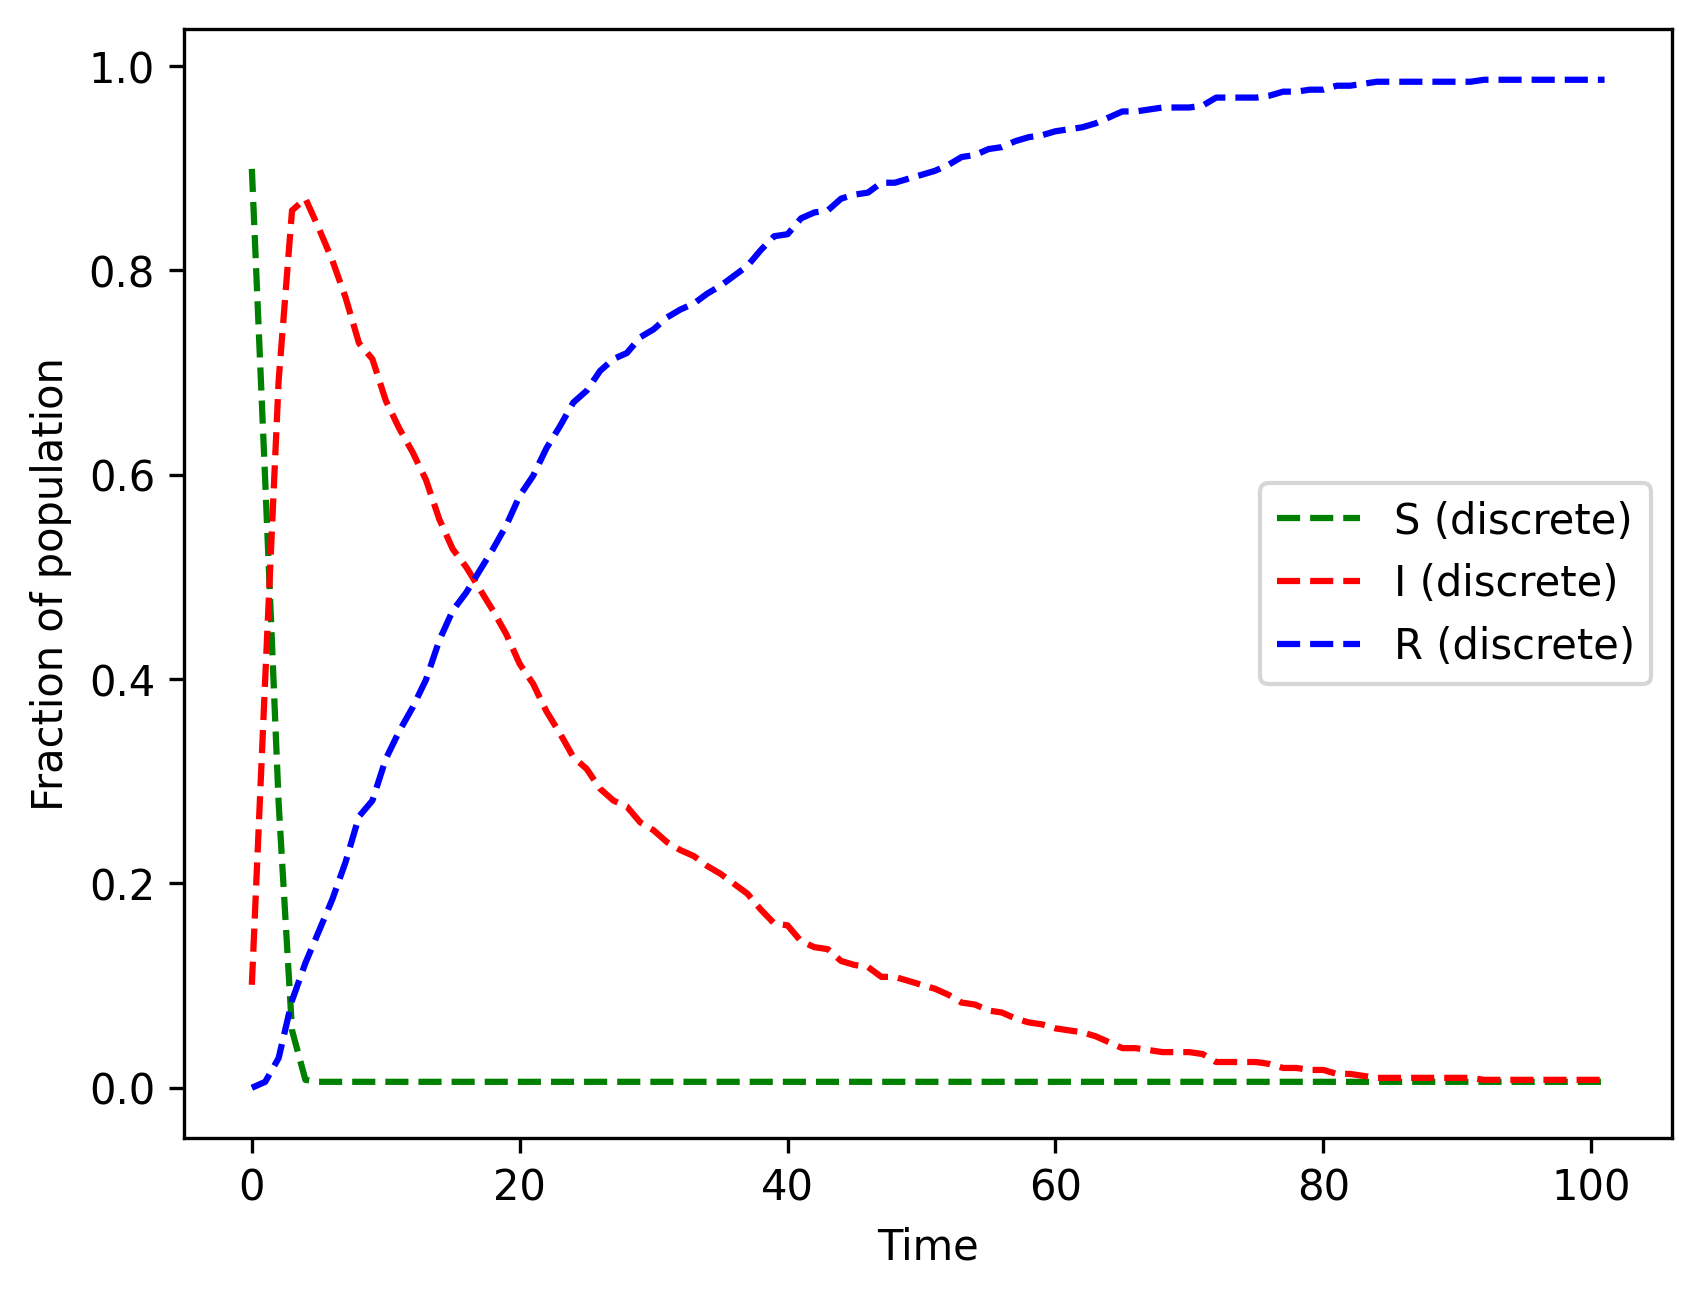
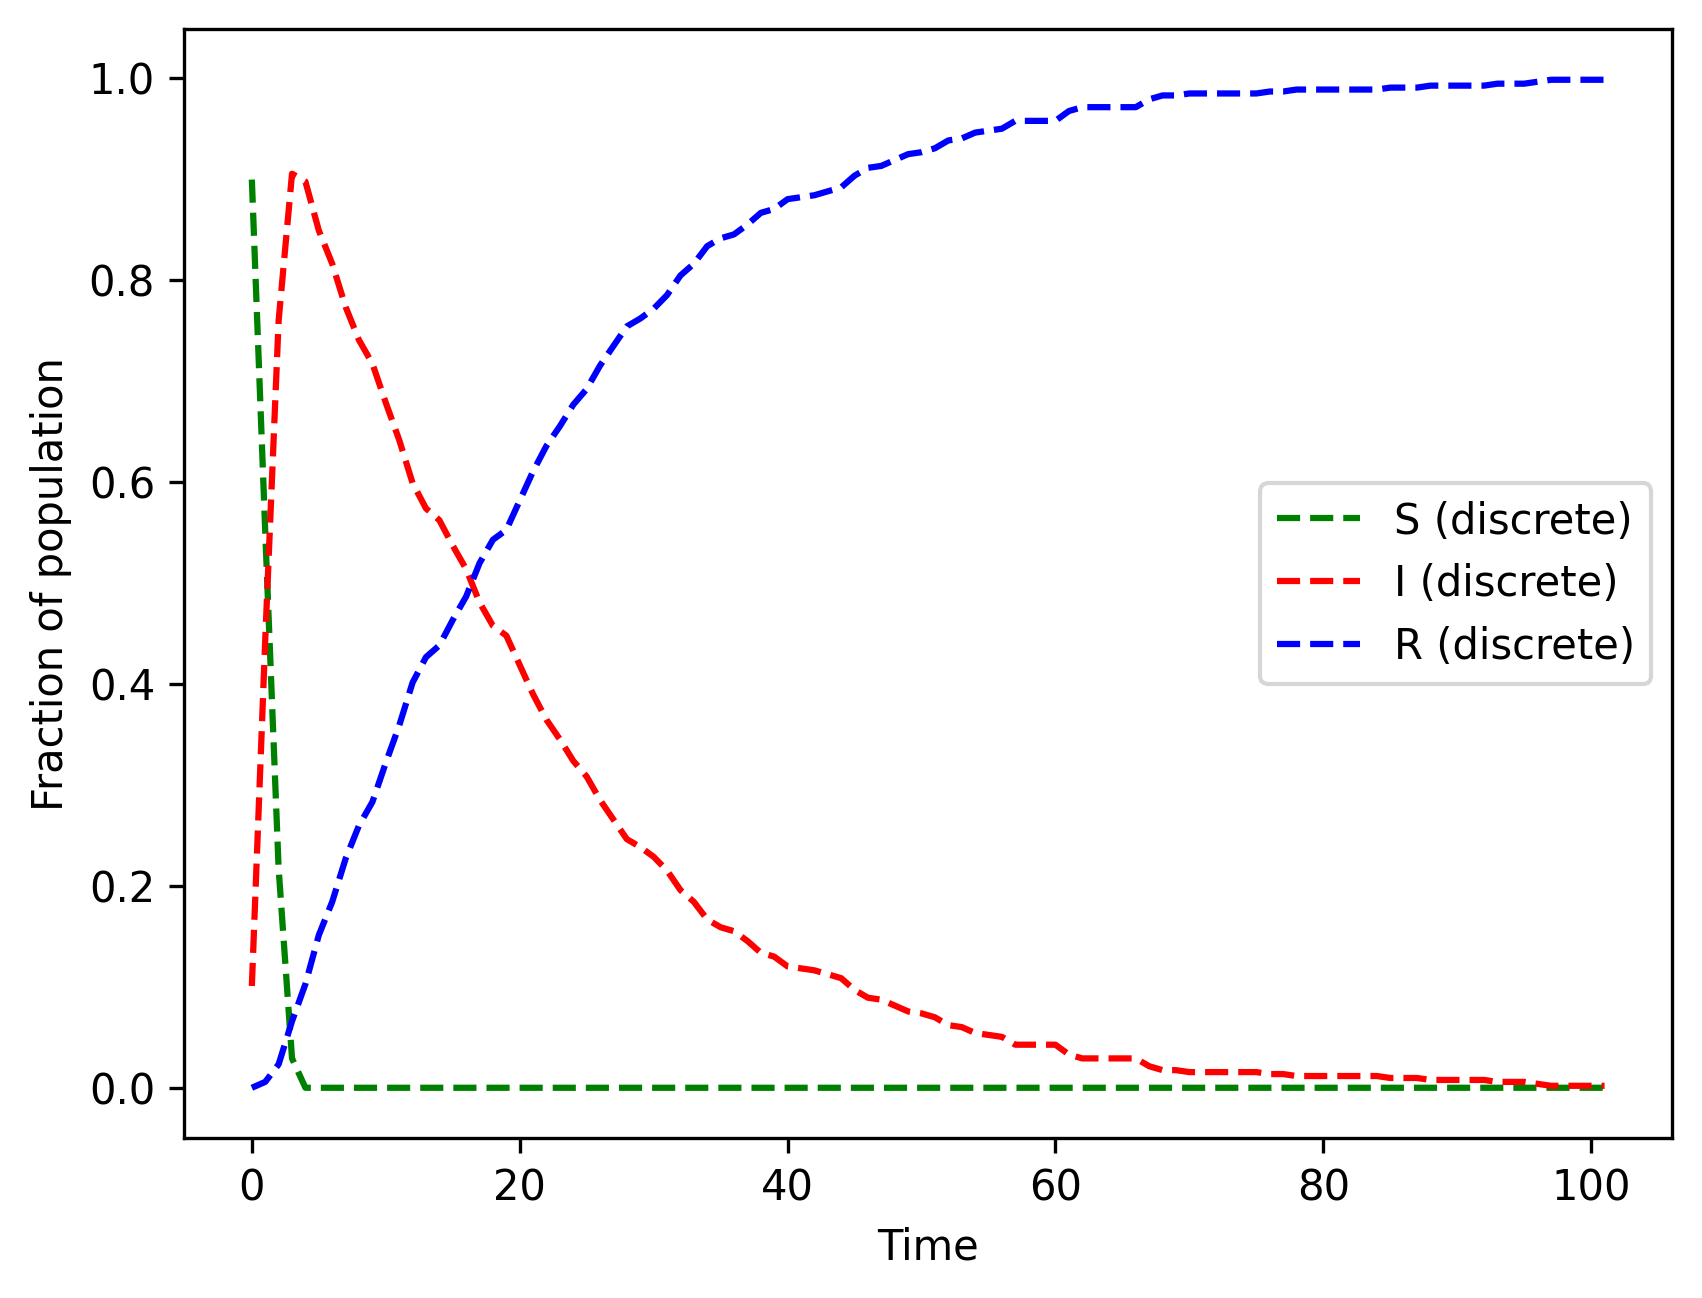
lognorm distribution

diff --git a/edge_rewiring/model_generation.py b/edge_rewiring/model_generation.py
@@ -88,8 +88,8 @@ def generate_C_distribution(min_size, max_size, C_avg, std, num_max_hyperedge, t
     # Use lognormal distribution which is better for positive values
     
     # For lognormal distribution with desired mean C_avg:
-    # mean_lognormal = exp(mu + sigma^2/2)
-    # So: mu = ln(mean_lognormal) - sigma^2/2
+    # mean_lognormal = exp(mu + std^2/2)
+    # So: mu = ln(mean_lognormal) - std^2/2
     mu = np.log(C_avg) - (std**2 / 2)
     
     # Generate lognormal distribution
@@ -98,10 +98,11 @@ def generate_C_distribution(min_size, max_size, C_avg, std, num_max_hyperedge, t
     # Round to integers and clip to bounds
     C_distribution = np.round(C_distribution).astype(int)
     C_distribution = np.clip(C_distribution, min_size, max_size)
+    C_distribution.sort()
     
     print("C_distribution:", C_distribution)
 
-    # Adjust the sum to match target_sum
+    # Adjust the sum to match target_sum using lognormal PDF for weighting
     excess = C_distribution.sum() - target_sum
     print("excess:", excess)
     
@@ -111,8 +112,21 @@ def generate_C_distribution(min_size, max_size, C_avg, std, num_max_hyperedge, t
             reducible_indices = [i for i in range(num_max_hyperedge) if C_distribution[i] > min_size]
             if len(reducible_indices) == 0:
                 break
-            idx = random.choice(reducible_indices)
-            C_distribution[idx] -= 1
+                
+            # Calculate PDF values for reducible elements
+            reducible_values = C_distribution[reducible_indices]
+            pdf_values = scipy.stats.lognorm.pdf(reducible_values, s=std, scale=np.exp(mu))
+            
+            # lower PDF = higher chance of being selected for reduction
+            if np.sum(pdf_values) > 0:
+                inverse_weights = 1.0 / (pdf_values + 1e-10)  # Add small epsilon to avoid division by zero
+                weights = inverse_weights / np.sum(inverse_weights)
+                selected_idx = np.random.choice(reducible_indices, p=weights)
+            else:
+                # Fallback to random if all PDFs are zero
+                selected_idx = random.choice(reducible_indices)
+            
+            C_distribution[selected_idx] -= 1
             
     elif excess < 0:
         # Increase values that are below maximum
@@ -120,9 +134,21 @@ def generate_C_distribution(min_size, max_size, C_avg, std, num_max_hyperedge, t
             increasable_indices = [i for i in range(num_max_hyperedge) if C_distribution[i] < max_size]
             if len(increasable_indices) == 0:
                 break
-            idx = random.choice(increasable_indices)
-            C_distribution[idx] += 1
-    
+                
+            # Calculate PDF values for increasable elements  
+            increasable_values = C_distribution[increasable_indices] + 1  # +1 because we're considering the increased value
+            pdf_values = scipy.stats.lognorm.pdf(increasable_values, s=std, scale=np.exp(mu))
+            
+            # higher PDF = higher chance of being selected for increase
+            if np.sum(pdf_values) > 0:
+                weights = pdf_values / np.sum(pdf_values)
+                selected_idx = np.random.choice(increasable_indices, p=weights)
+            else:
+                # Fallback to random if all PDFs are zero
+                selected_idx = random.choice(increasable_indices)
+            
+            C_distribution[selected_idx] += 1
+    print("C_distribution:", C_distribution)
     return C_distribution
 
 
